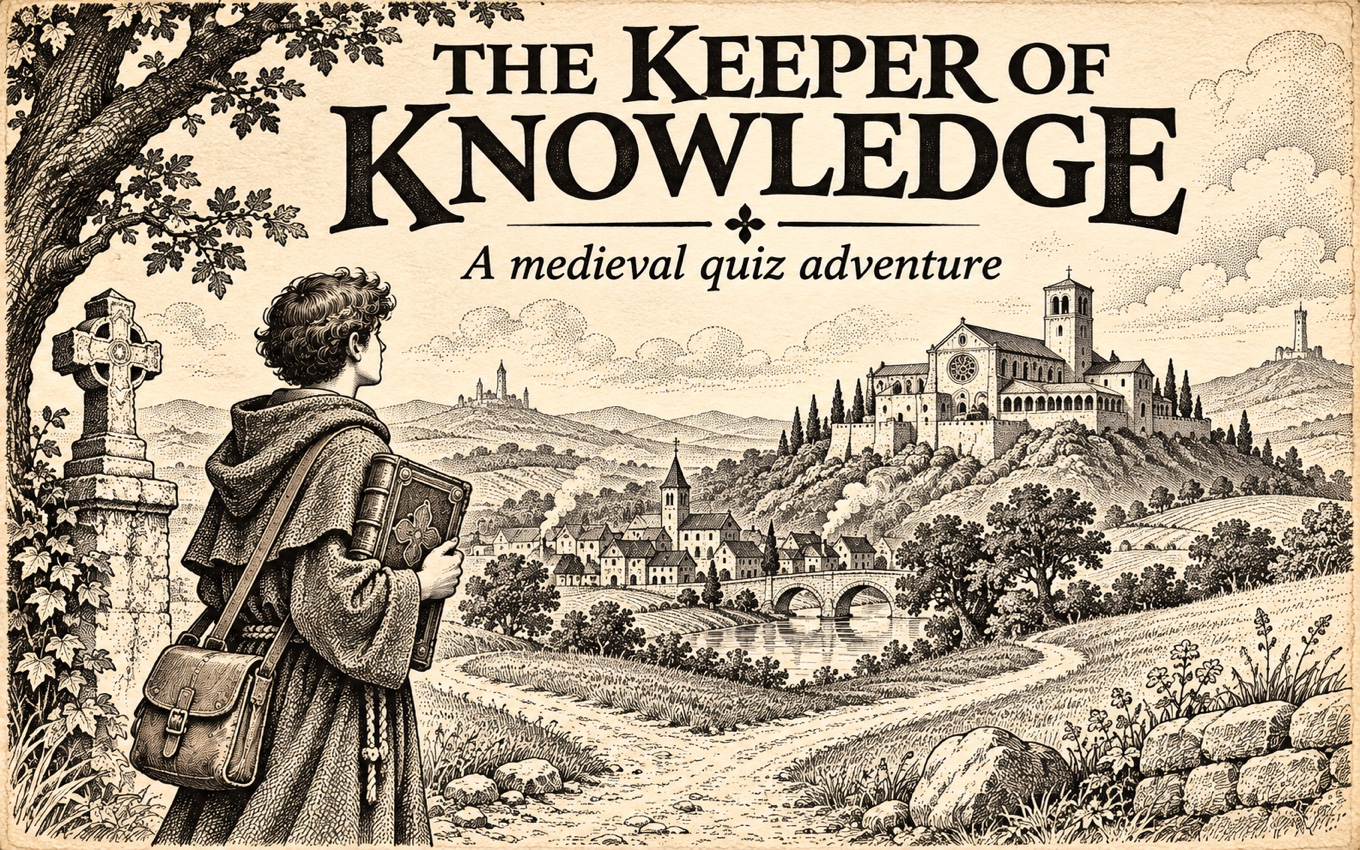
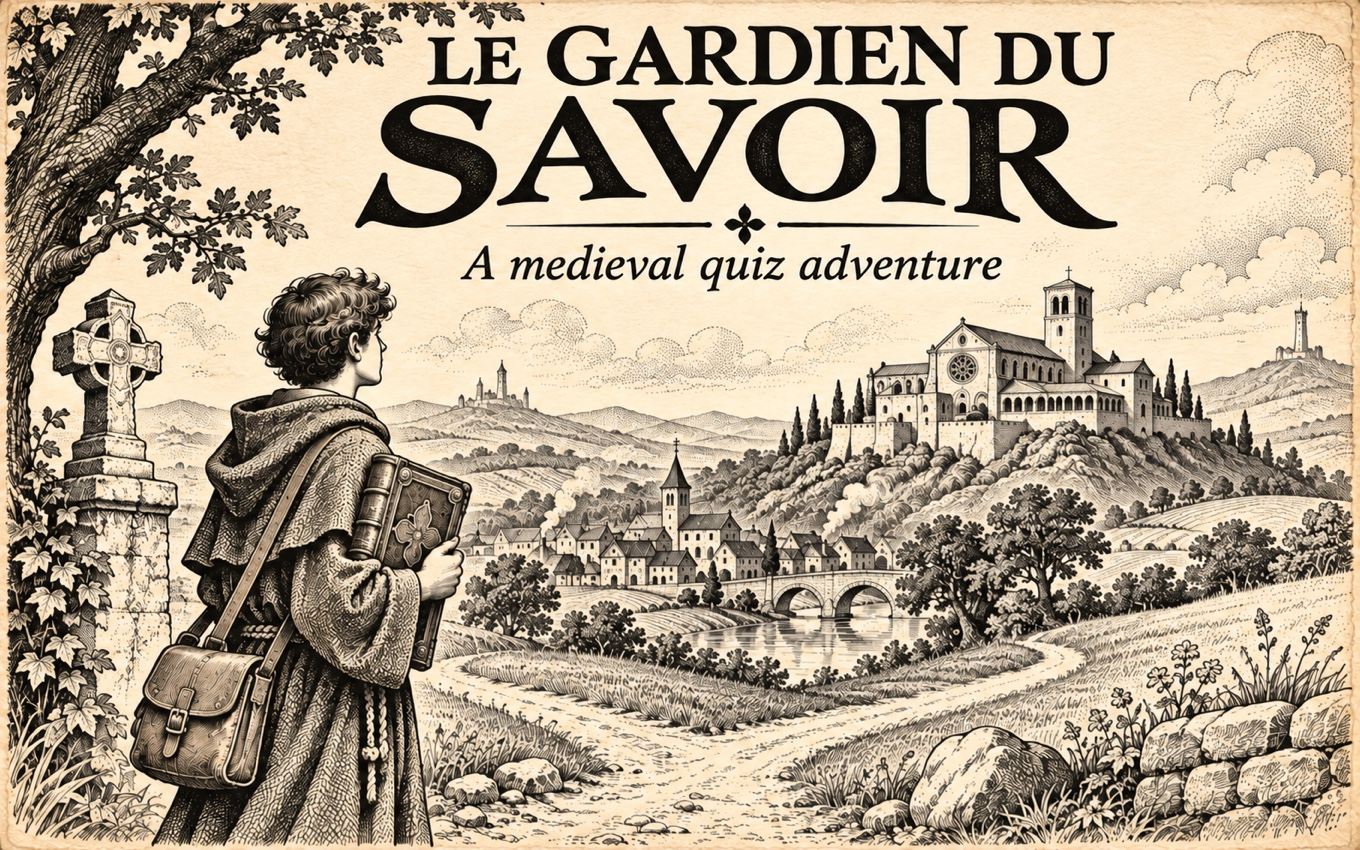
hammer: Update game title and metadata to "Le Gardien du Savoir" across various files, ensuring consistency in the French localization.

diff --git a/library/lgs/Godot/addons/gpx-godot-plugin/index.html b/library/lgs/Godot/addons/gpx-godot-plugin/index.html
@@ -5,7 +5,7 @@
     <meta charset="utf-8">
     <meta name="viewport" content="width=device-width, initial-scale=1, maximum-scale=1, user-scalable=no" />
     <meta name="author" content="GamePix">
-    <title>The Keeper of Knowledge</title>
+    <title>Le Gardien du Savoir</title>
     <style>
         html,
         body {

diff --git a/library/lgs/gamepix/metadata.md b/library/lgs/gamepix/metadata.md
@@ -5,12 +5,12 @@
 - Build: `gamepix/build.sh` → `Exports/lgs-gamepix.zip` (index.html at root; only external URL is the official SDK)
 - Orientation: Landscape; fits resized iframes without cropping at 800×450
 - Default language: English
-- Official GamePix title: The Keeper of Knowledge
-- Current namespace: `le-gardien-du-savoir`; requested namespace: `the-keeper-of-knowledge` (requires GamePix intervention; no editable field in the dashboard).
+- Official GamePix title: Le Gardien du Savoir
+- Namespace: `le-gardien-du-savoir` (retained, matching the official title).
 - Main tag: Puzzle (alternatives: Trivia / Quiz, Adventure)
 
 ## Description
-The Keeper of Knowledge is a medieval point-and-click quiz adventure. Guide a young monk through towns, monasteries and the island of Histora. Meet unusual characters, collect useful objects and answer questions about science, history and culture. Earn Talents, find three Talismans and prove you are worthy to inherit the Great Book of Knowledge. Explore at your own pace, with English text and a built-in save slot.
+Le Gardien du Savoir is a medieval point-and-click quiz adventure. Guide a young monk through towns, monasteries and the island of Histora. Meet unusual characters, collect useful objects and answer questions about science, history and culture. Earn Talents, find three Talismans and prove you are worthy to inherit the Great Book of Knowledge. Explore at your own pace, with English text and a built-in save slot.
 
 ## Controls
 Desktop: click choices or the scenery to explore. Use the bag for inventory, the disk to save, and the angel for hints. Scroll text panels to read longer messages and answers. Mobile: tap to interact; play in landscape. Answer quizzes to earn Talents and collect the three Talismans. Resume your saved adventure from the main menu.
@@ -19,7 +19,7 @@ Desktop: click choices or the scenery to explore. Use the bag for inventory, the
 - Icon 256x256: `gamepix/icon-256.png`
 - Cover 1360x850: `gamepix/cover-1360x850.jpg`
 - Promotional images are original illustrated key art, not screenshots.
-- Official submission title: The Keeper of Knowledge; French original: Le Gardien du Savoir.
+- Official submission title: Le Gardien du Savoir.
 
 ## Resubmission QA
 - 2026-11-05: Withdrew the French-title resubmission at the owner's request. Restored `The Keeper of Knowledge` and resubmitted; portal confirmed `New release REVIEW`. Release notes request GamePix to change the namespace to `the-keeper-of-knowledge`, since the dashboard has no editable namespace field. Namespace migration remains pending GamePix action.
@@ -35,3 +35,7 @@ Desktop: click choices or the scenery to explore. Use the bag for inventory, the
[1 lines of base64/hex data omitted]
 
[1 lines of base64/hex data omitted]
+
[1 lines of base64/hex data omitted]
+
+- GamePix Preview verified for build `3LjQm1gDuHi9SqVJA1XFelrhg85`: corrected loading art and French menu title displayed; SDK reached LOADED. Draft remains `edit`, not submitted.
